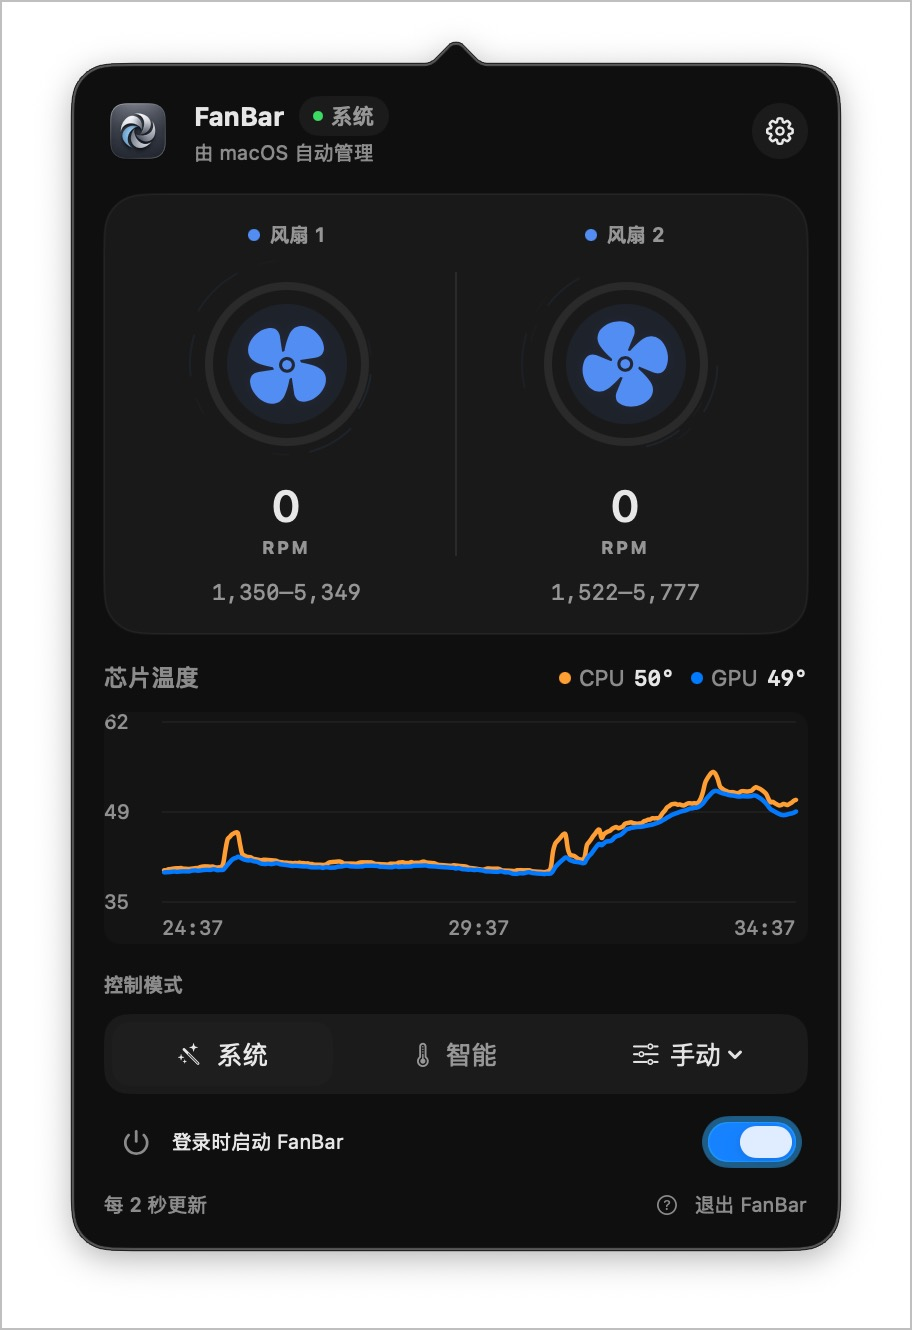
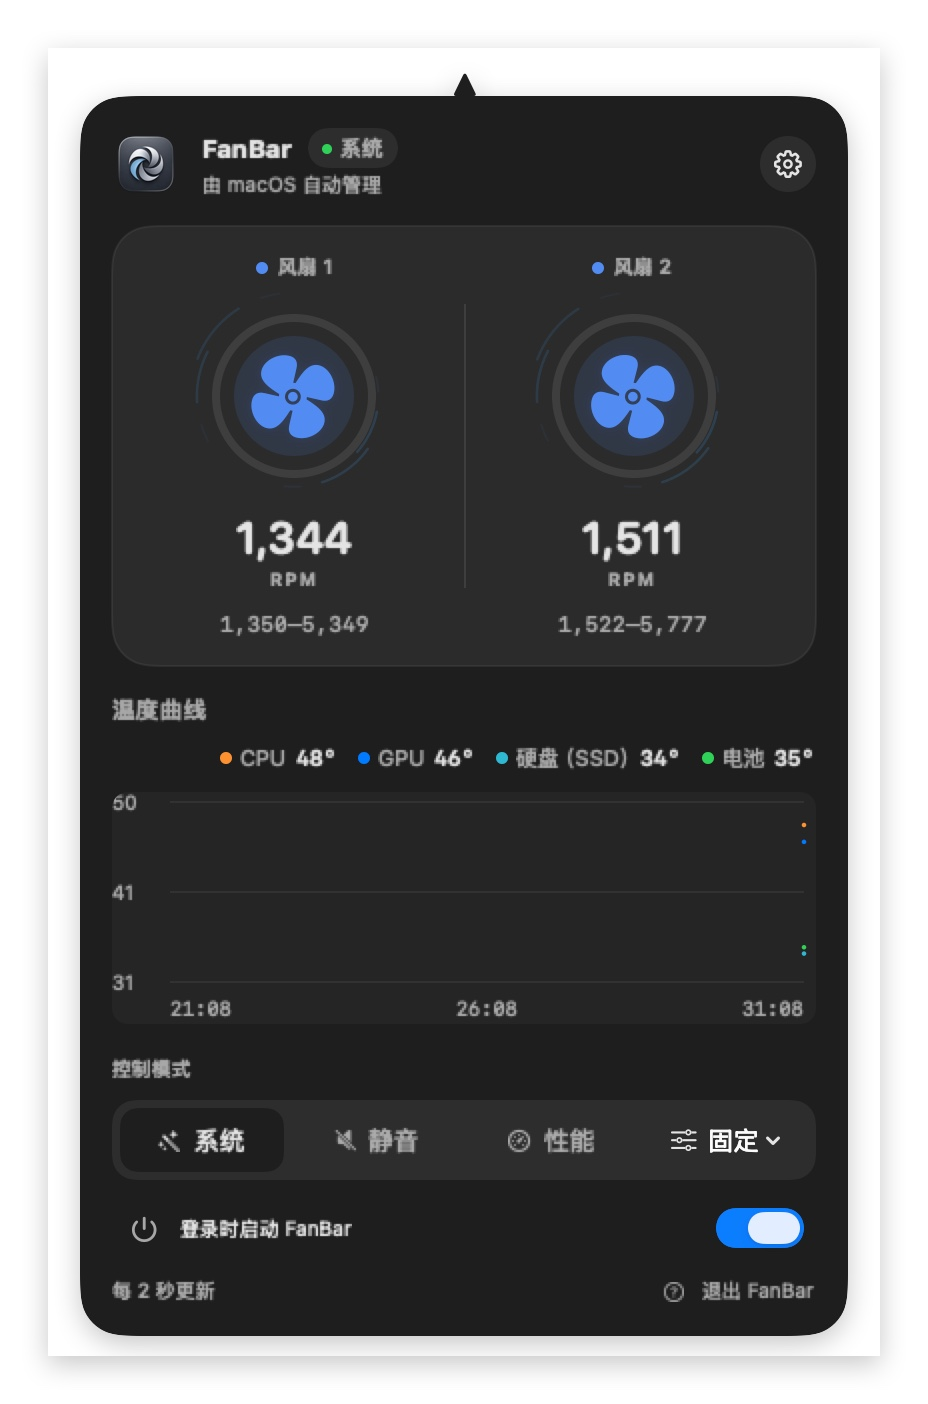
Update README screenshots and download notes
Show the 0.4.3 cooling-curve settings in screenshots, use the captured English light images, and document the per-architecture GitHub Release downloads.

diff --git a/README.md b/README.md
@@ -8,11 +8,13 @@ FanBar supports macOS 11 Big Sur and later on Apple Silicon Macs and Intel Macs 
 
 ## Screenshots
 
-The menu-bar screenshot below shows the English interface. FanBar also includes Simplified Chinese and can switch languages from **Settings → Language** without restarting.
+English interface. Switch to Simplified Chinese from **Settings → Language** without restarting.
 
-![FanBar English dark menu-bar popover](docs/screenshots/fanbar-menu-dark-en.jpg)
+![FanBar English menu-bar popover](docs/screenshots/fanbar-menu-light-en.jpg)
 
-![FanBar settings](docs/screenshots/fanbar-settings-dark.jpg)
+Settings opens on the Cooling tab. Each panel preset has its own editable temperature→RPM curve.
+
+![FanBar English cooling curve settings](docs/screenshots/fanbar-settings-light-en.jpg)
 
 ## Highlights
 
@@ -25,6 +27,14 @@ The menu-bar screenshot below shows the English interface. FanBar also includes 
 - **Safe fallback** — Targets are clamped to each fan's reported hardware range. On quit, disconnect, or service failure, FanBar attempts to restore macOS automatic control.
 - **Native authorization flow** — First-run guidance explains why the control service is needed and opens the correct macOS settings page.
 - **English and Simplified Chinese** — Choose System, English, or 简体中文 in FanBar Settings.
+
+## Download
+
+The latest notarized build is on the [GitHub Releases](https://github.com/helson-lin/FanBar/releases/latest) page:
+
+- Apple Silicon → `FanBar-<version>-arm64.dmg`
+- Intel → `FanBar-<version>-x86_64.dmg`
+- Universal (Sparkle updates use this) → `FanBar-<version>.dmg`
 
 ## Requirements
 
@@ -86,7 +96,7 @@ FANBAR_DMG_OUTPUT=dist/FanBar-x86_64.dmg zsh scripts/build-dmg.sh dist/FanBar-x8
 Verify a DMG's signature, architecture, and installation structure with:
 
 ```sh
-zsh scripts/test-dmg.sh dist/FanBar-0.4.1.dmg
+zsh scripts/test-dmg.sh dist/FanBar-0.4.3.dmg
 ```
 
 ## Architecture
@@ -141,8 +151,8 @@ while using the local release command.
 When CI publishing is enabled, push a tag matching the app version:
 
 ```sh
-git tag -a v0.4.1 -m "FanBar 0.4.1"
-git push origin v0.4.1
+git tag -a v0.4.3 -m "FanBar 0.4.3"
+git push origin v0.4.3
 ```
 
 ## Acknowledgements and license
